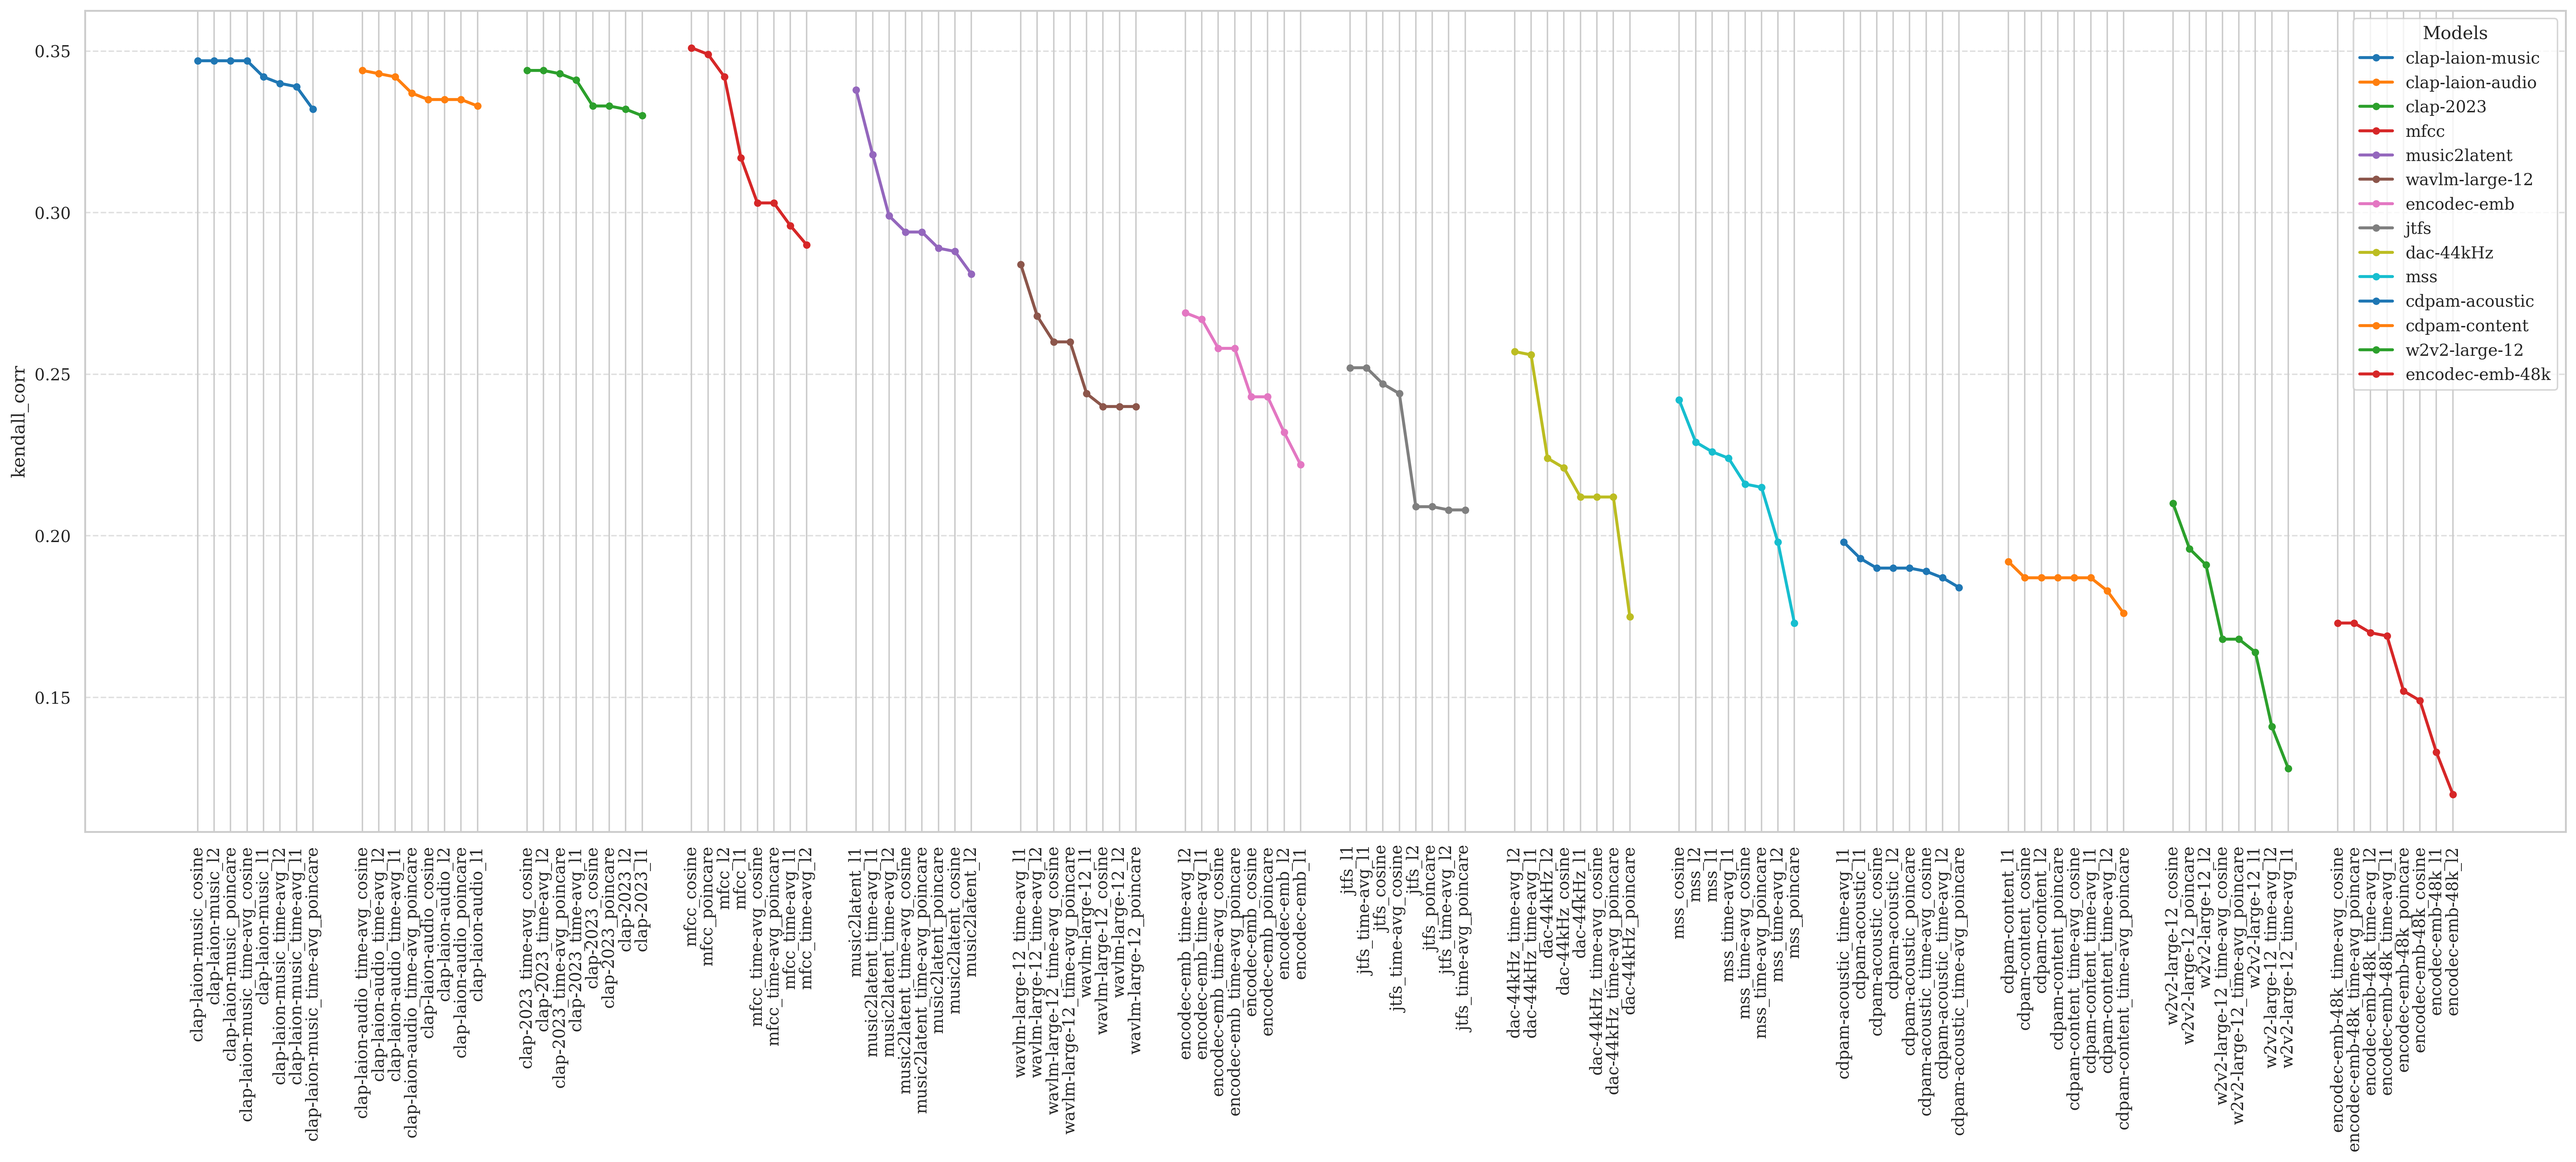
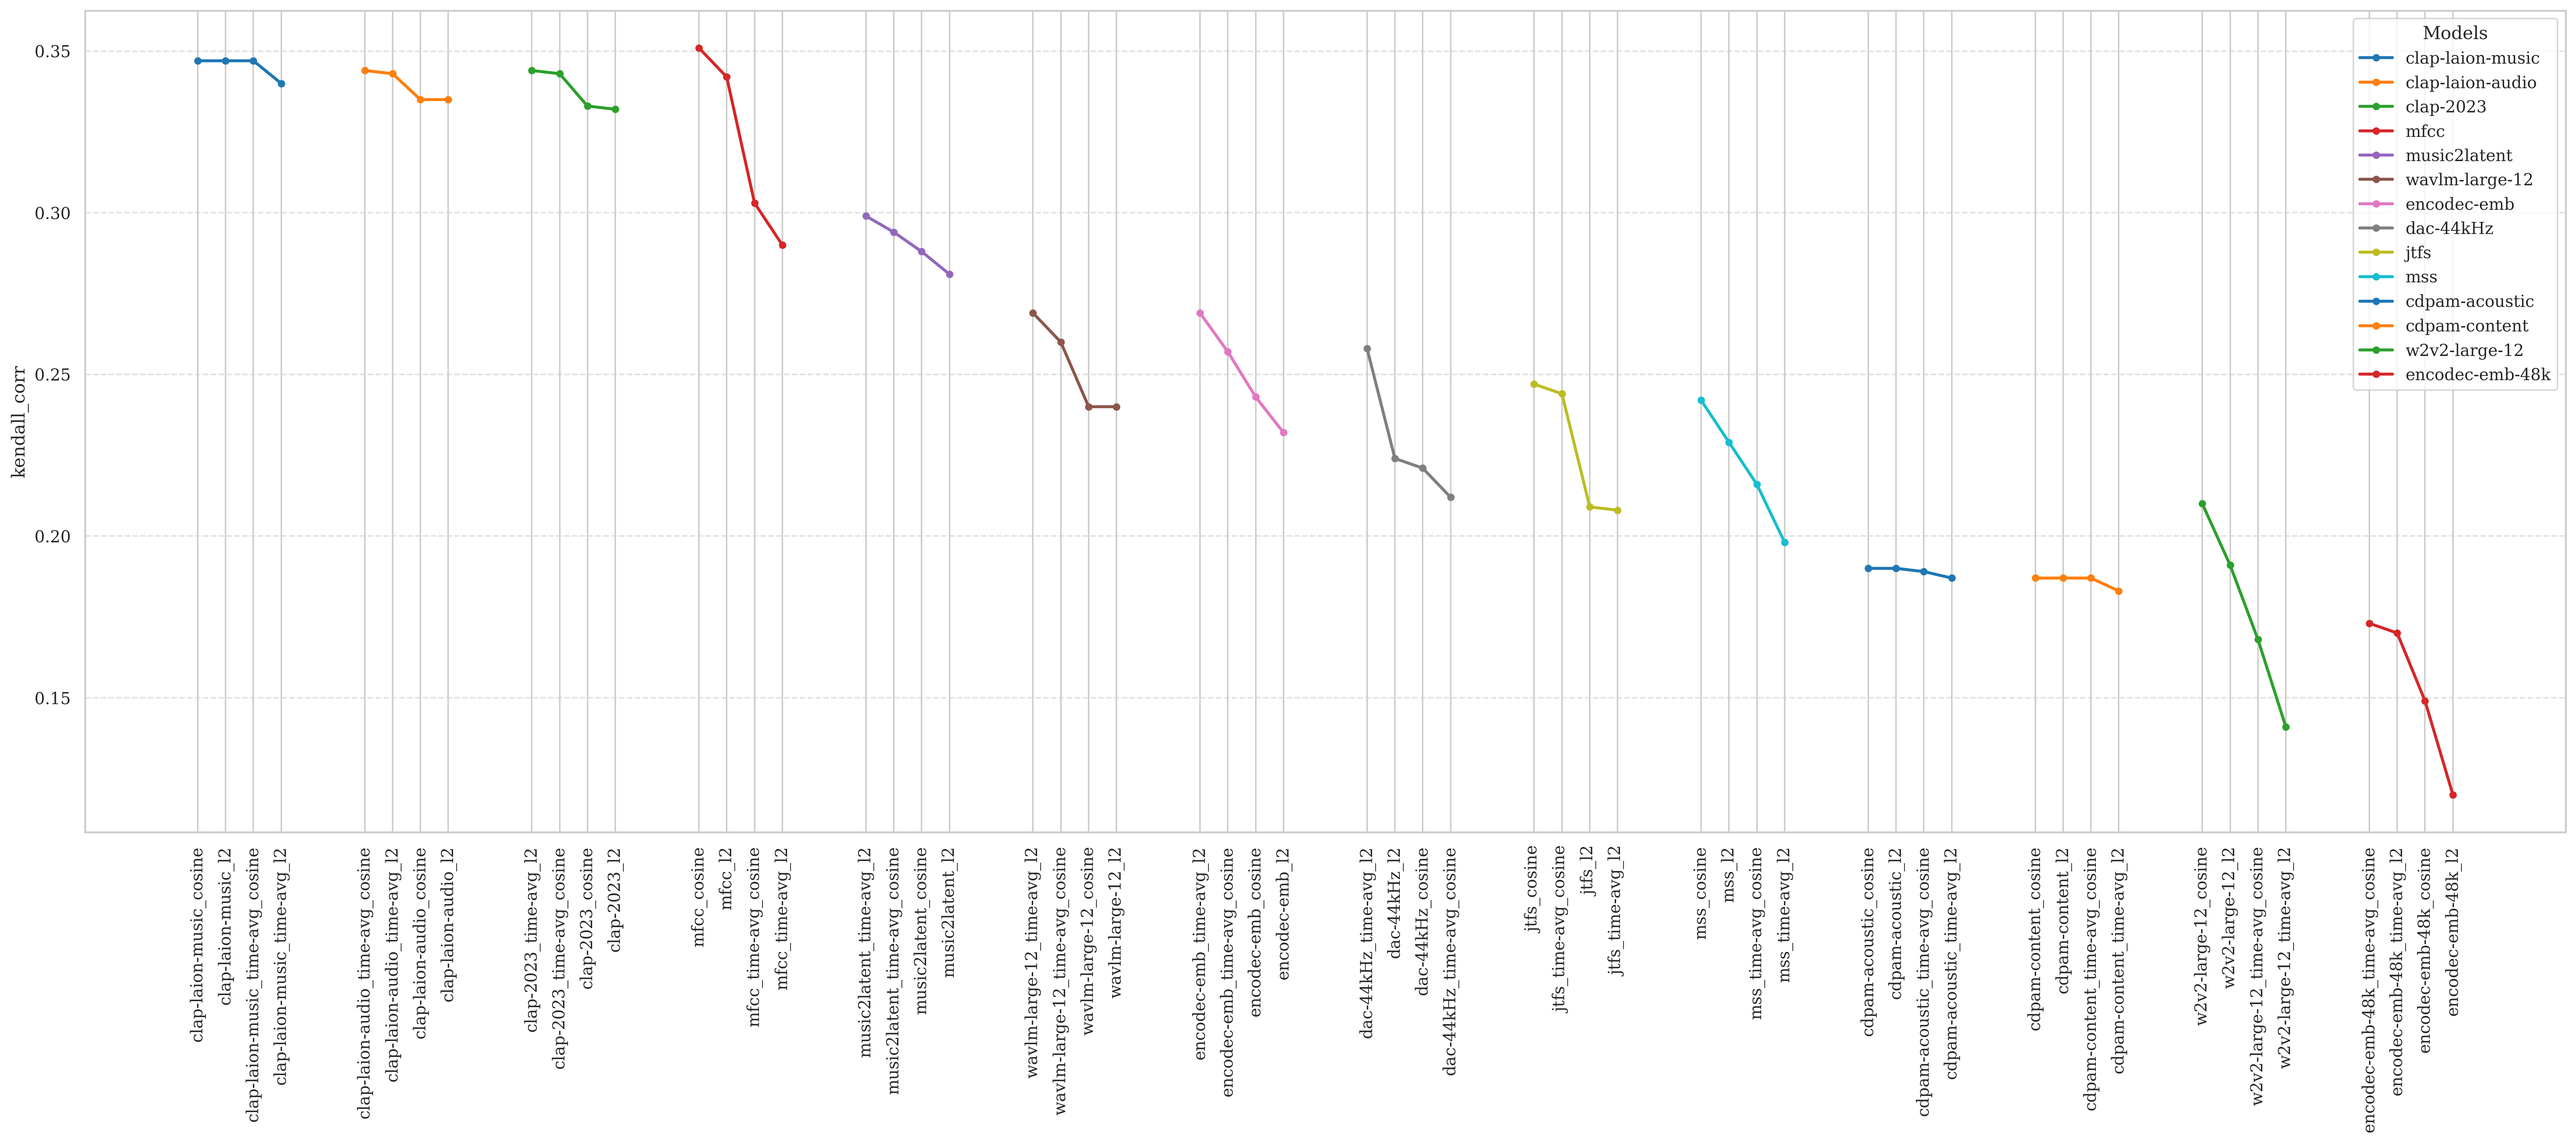
add dot product, simplify example results

Changed region(s): [[0.0624, 0.0, 0.9985, 0.9956], [0.0, 0.3111, 0.0312, 0.3423]]

diff --git a/timbremetrics/metrics.py b/timbremetrics/metrics.py
@@ -12,7 +12,7 @@ from .utils import (
     mask,
     min_max_normalization,
 )
-from .distances import l1, l2, cosine, poincare
+from .distances import l1, l2, dot_product, cosine, poincare
 
 
 def mae(pred: Tensor, true: Tensor) -> Tensor:
@@ -96,7 +96,7 @@ class TimbreMetric(nn.Module):
         fadtk_keep_time_dimension: Whether to keep the time dimension
             of the fadtk model output. (default: False)
         distances: A list of distance functions to use for computing dissimilarity
-            matrices. (default: [l1, l2, cosine, poincare])
+            matrices. (default: [l2, cosine])
         metrics: A list of metric functions to use for evaluating the model's performance.
             (default: [mae, ndcg_retrieve_sim, spearman_corr, kendall_corr, triplet_agreement])
         sample_rate: The sample rate to use for audio loading. If None,
@@ -136,7 +136,7 @@ class TimbreMetric(nn.Module):
             ), "If using FADTK, model must be provided for suitable audio loading."
         self.fadtk_keep_time_dimension = fadtk_keep_time_dimension
 
-        self.distances = [l1, l2, cosine, poincare]
+        self.distances = [l2, cosine]
         if distances is not None:
             assert set(distances).issubset(
                 set(self.distances)

diff --git a/timbremetrics/distances.py b/timbremetrics/distances.py
@@ -12,6 +12,10 @@ def l2(x):
     return torch.cdist(x, x, p=2)
 
 
+def dot_product(x):
+    return -x @ x.T
+
+
 def cosine(x):
     return 1 - pairwise_cosine_similarity(x)
 
